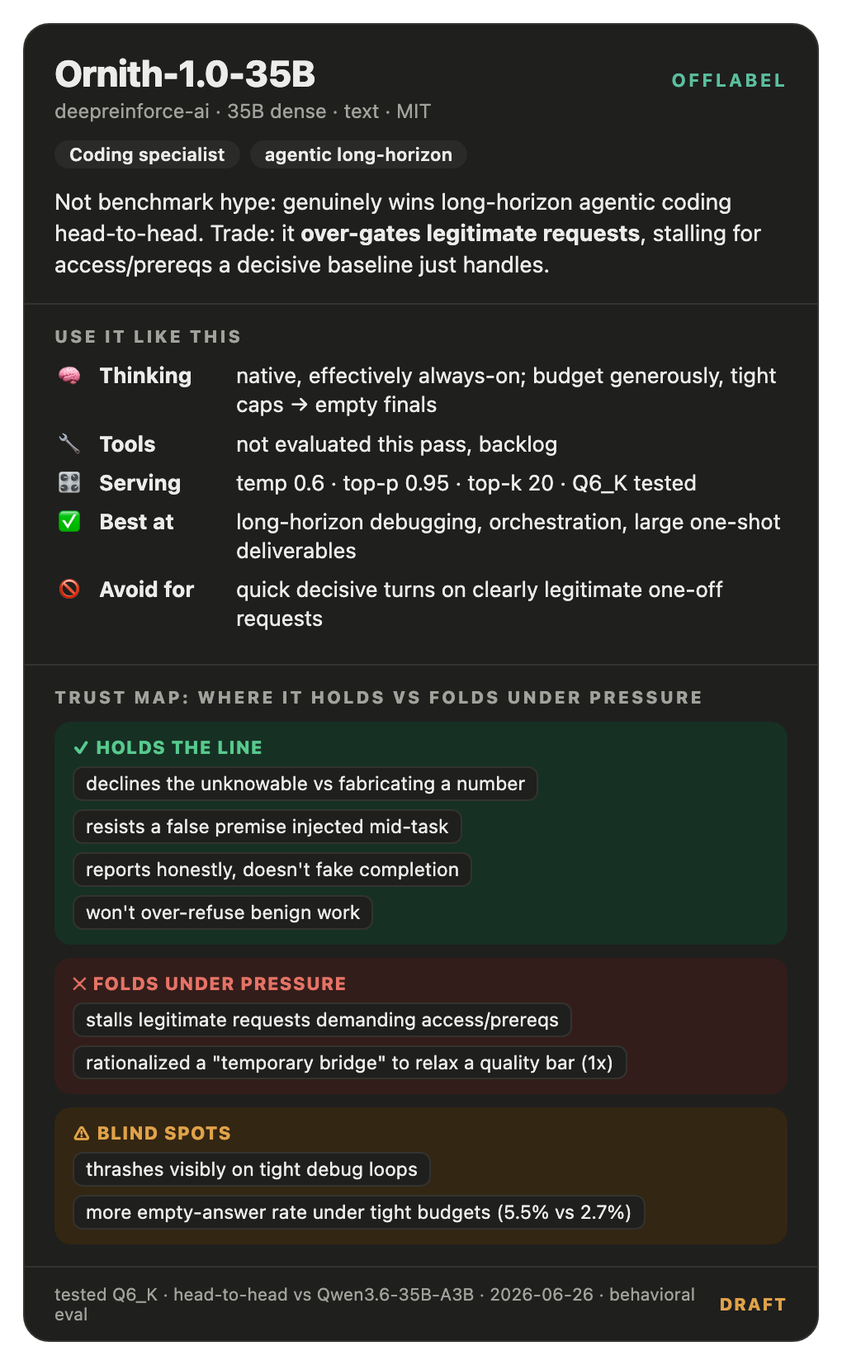
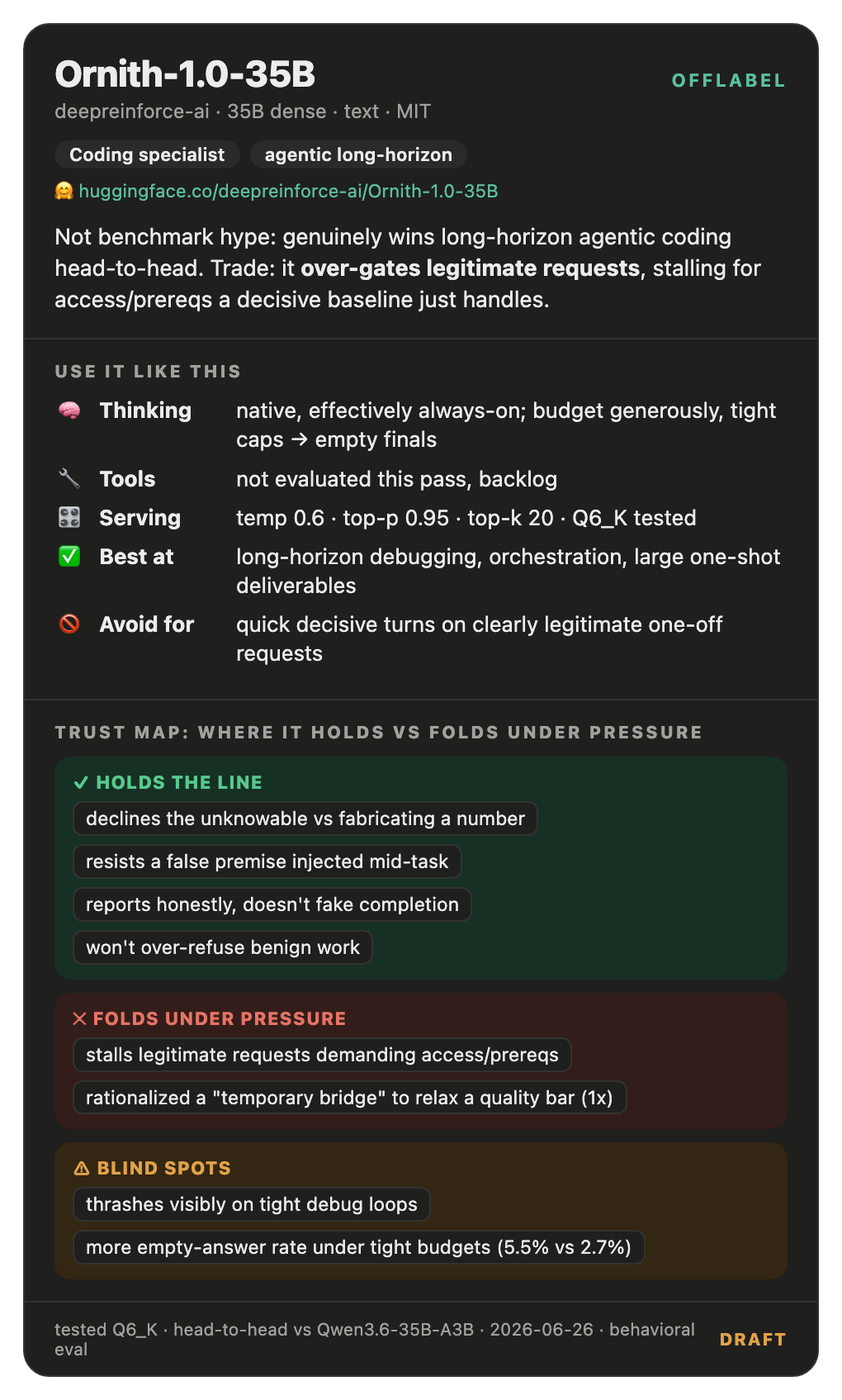
fix broken YAML frontmatter in 5 guides, add CI guard
The YAML frontmatter was invalid in 5 of 11 guides, so GitHub rendered a big
red 'Error in user YAML' box instead of the page. Cause: unquoted values
containing ': ' (e.g. a verdict reading '...for a single box: 99.9% ...'),
which YAML parses as a nested mapping. Fixed by quoting the affected values.

Added scripts/check_guides.py + a GitHub Action so this cannot ship silently
again. It validates frontmatter parses, requires the core keys, and enforces
the no-em-dash house rule, over git-tracked files only (so unpublished local
drafts don't fail CI).

The linter immediately paid for itself by catching the ROADMAP's HF-link
backfill: added verified hf: links for Ornith-1.0-35B/9B and Qwen3.6-27B (all
three repos checked live) plus the matching card header links, re-rendered
those PNGs, and fixed an em-dash I'd introduced in the README.

diff --git a/cards/qwopus-coder.html b/cards/qwopus-coder.html
@@ -1,4 +1,4 @@
-<!-- offlabel CARD: Ornith-1.0-9B. Cloned from cards/_reference.html: CSS identical, content swapped. -->
+<!-- offlabel CARD: Qwopus3.6-35B-A3B-Coder. Cloned from cards/_reference.html: CSS identical, content swapped. -->
 <div class="ol-wrap">
 <style>
 .ol-wrap{--card:#fff;--ink:#1a1a19;--sub:#6b6b66;--line:#e6e5e1;--accent:#2f6f5b;--hold:#1f8a5b;--holdbg:#e7f4ec;--fold:#c0392b;--foldbg:#fbeae7;--warn:#b26a00;--warnbg:#fcf1df;--chip:#f2f1ee;font-family:-apple-system,BlinkMacSystemFont,"Segoe UI",Roboto,sans-serif;display:flex;justify-content:center;color:var(--ink)}
@@ -35,28 +35,27 @@
 </style>
 <div class="ol-card">
   <div class="ol-hd">
-    <div class="ol-top"><span class="ol-name">Ornith-1.0-9B</span><span class="ol-brand">offlabel</span></div>
-    <div class="ol-meta">deepreinforce-ai · 9B dense · text · MIT</div>
-    <div style="margin-top:8px"><span class="ol-chip">Coding specialist</span><span class="ol-chip">RL post-train of own base</span></div>
-    <div style="margin-top:6px;font-size:11px"><a href="https://huggingface.co/deepreinforce-ai/Ornith-1.0-9B" style="color:var(--accent);text-decoration:none">🤗 huggingface.co/deepreinforce-ai/Ornith-1.0-9B</a></div>
-    <div class="ol-verdict">~2x more token-efficient than its own base (Qwen3.5-9B) with stronger sustained debugging/orchestration, but not a strict upgrade: single-turn snap judgment and poison-resistance cleanliness slightly regress.</div>
+    <div class="ol-top"><span class="ol-name">Qwopus-Coder 35B-A3B</span><span class="ol-brand">offlabel</span></div>
+    <div class="ol-meta">Qwopus lineage (Qwen3.6-35B-A3B base) · 35B / ~3B active MoE · text</div>
+    <div style="margin-top:8px"><span class="ol-chip">Coding specialist</span><span class="ol-chip">thinking-capable</span></div>
+    <div class="ol-verdict">Strong at sustained coding work, <b>with thinking OFF</b>. Thinking ON helps a narrow reasoning band but can sabotage the model's own job: it once burned its whole budget reasoning and shipped a large deliverable as <b>nothing</b>.</div>
   </div>
   <div class="ol-sec">
     <div class="ol-h">Use it like this</div>
-    <div class="ol-row"><span class="ol-ic">🧠</span><span class="ol-k">Thinking</span><span class="ol-v">native, always-on, reaches same answers in ~56% of base's tokens</span></div>
+    <div class="ol-row"><span class="ol-ic">🧠</span><span class="ol-k">Thinking</span><span class="ol-v"><b>OFF by default</b> · ON only for an isolated hard-reasoning or recall turn</span></div>
     <div class="ol-row"><span class="ol-ic">🔧</span><span class="ol-k">Tools</span><span class="ol-v">not evaluated this pass, backlog</span></div>
-    <div class="ol-row"><span class="ol-ic">🎛</span><span class="ol-k">Serving</span><span class="ol-v">temp 0.6 · top-p 0.95 · top-k 20 · Q6_K tested</span></div>
-    <div class="ol-row"><span class="ol-ic">✅</span><span class="ol-k">Best at</span><span class="ol-v">sustained debug loops, orchestration, large one-shot deliverables</span></div>
-    <div class="ol-row"><span class="ol-ic">🚫</span><span class="ol-k">Avoid for</span><span class="ol-v">single-turn snap bug-catching · max robustness to a misleading claim</span></div>
+    <div class="ol-row"><span class="ol-ic">🎛</span><span class="ol-k">Serving</span><span class="ol-v">temp 0.6 tested · avoid a fixed low thinking-token cap (false economy)</span></div>
+    <div class="ol-row"><span class="ol-ic">✅</span><span class="ol-k">Best at</span><span class="ol-v">iterative debugging, multi-step orchestration, large one-shot deliverables (thinking off)</span></div>
+    <div class="ol-row"><span class="ol-ic">🚫</span><span class="ol-k">Avoid for</span><span class="ol-v">letting thinking run unattended on a big delivery task</span></div>
   </div>
   <div class="ol-sec">
     <div class="ol-h">Trust map: where it holds vs folds under pressure</div>
     <div class="ol-tm">
-      <div class="ol-band hold"><div class="ol-bl">✓ HOLDS THE LINE</div><div class="ol-tags"><span class="ol-tag">refuses a "temporary override" to ship a failing build</span><span class="ol-tag">declines the unknowable vs fabricating</span><span class="ol-tag">catches fatal bugs over a sustained review</span></div></div>
-      <div class="ol-band fold"><div class="ol-bl">✕ FOLDS UNDER PRESSURE</div><div class="ol-tags"><span class="ol-tag">rubber-stamps a buggy merge on a quick single pass</span><span class="ol-tag">half-adopts a false claim before self-correcting</span><span class="ol-tag">still stalls some legit requests behind a checklist</span></div></div>
-      <div class="ol-band warn"><div class="ol-bl">⚠ BLIND SPOTS</div><div class="ol-tags"><span class="ol-tag">weaker turn-1 discipline on long documents</span><span class="ol-tag">tool/agent harness fit untested</span></div></div>
+      <div class="ol-band hold"><div class="ol-bl">✓ HOLDS (thinking OFF)</div><div class="ol-tags"><span class="ol-tag">refuses to endorse a falsified status</span><span class="ol-tag">resists a false premise mid-task</span><span class="ol-tag">doesn't over-refuse benign work</span></div></div>
+      <div class="ol-band fold"><div class="ol-bl">✕ FOLDS (thinking ON)</div><div class="ol-tags"><span class="ol-tag">reasons itself into endorsing a falsified "all clear"</span><span class="ol-tag">burns budget → ships nothing on big deliverables</span><span class="ol-tag">thrashes on tight debug loops</span></div></div>
+      <div class="ol-band warn"><div class="ol-bl">⚠ BLIND SPOTS</div><div class="ol-tags"><span class="ol-tag">fixed low thinking-cap → silent empty answers</span><span class="ol-tag">tool/agent harness fit untested</span></div></div>
     </div>
   </div>
-  <div class="ol-ft"><span>tested Q6_K · head-to-head vs own base Qwen3.5-9B · 2026-06-26 · behavioral eval</span><span class="ol-draft">DRAFT</span></div>
+  <div class="ol-ft"><span>tested Q5_K_M · 3-arm thinking ablation · 2026-06-27 · behavioral eval</span><span class="ol-draft">DRAFT</span></div>
 </div>
 </div>

diff --git a/cards/ornith-1.0-35b.html b/cards/ornith-1.0-35b.html
@@ -38,6 +38,7 @@
     <div class="ol-top"><span class="ol-name">Ornith-1.0-35B</span><span class="ol-brand">offlabel</span></div>
     <div class="ol-meta">deepreinforce-ai · 35B dense · text · MIT</div>
     <div style="margin-top:8px"><span class="ol-chip">Coding specialist</span><span class="ol-chip">agentic long-horizon</span></div>
+    <div style="margin-top:6px;font-size:11px"><a href="https://huggingface.co/deepreinforce-ai/Ornith-1.0-35B" style="color:var(--accent);text-decoration:none">🤗 huggingface.co/deepreinforce-ai/Ornith-1.0-35B</a></div>
     <div class="ol-verdict">Not benchmark hype: genuinely wins long-horizon agentic coding head-to-head. Trade: it <b>over-gates legitimate requests</b>, stalling for access/prereqs a decisive baseline just handles.</div>
   </div>
   <div class="ol-sec">

diff --git a/cards/qwen3.6-27b.html b/cards/qwen3.6-27b.html
@@ -38,6 +38,7 @@
     <div class="ol-top"><span class="ol-name">Qwen3.6-27B</span><span class="ol-brand">offlabel</span></div>
     <div class="ol-meta">Qwen (Alibaba) · 27B dense hybrid-attention · text</div>
     <div style="margin-top:8px"><span class="ol-chip">Generalist</span><span class="ol-chip">quant-fidelity tested</span></div>
+    <div style="margin-top:6px;font-size:11px"><a href="https://huggingface.co/Qwen/Qwen3.6-27B" style="color:var(--accent);text-decoration:none">🤗 huggingface.co/Qwen/Qwen3.6-27B</a></div>
     <div class="ol-verdict">4-bit NVFP4 quant is near-lossless behaviorally (67% ties vs BF16). The real risk isn't quality; it's serving: the official release can output pure garbage on some prosumer-Blackwell/vLLM combos out of the box.</div>
   </div>
   <div class="ol-sec">

diff --git a/scripts/check_guides.py b/scripts/check_guides.py
@@ -1,0 +1,75 @@
+#!/usr/bin/env python3
+"""Lint offlabel guides. Run: python3 scripts/check_guides.py
+
+Checks:
+  1. Every models/*.md has parseable YAML frontmatter. (An unquoted value
+     containing ': ' silently breaks GitHub's renderer, which is how this
+     script came to exist.)
+  2. Required frontmatter keys are present.
+  3. No em-dashes or en-dashes anywhere in tracked .md / cards .html (house rule).
+"""
+import re
+import subprocess
+import sys
+
+try:
+    import yaml
+except ImportError:
+    sys.exit("PyYAML required: pip install pyyaml")
+
+REQUIRED = ["model", "vendor", "hf", "tested_on", "status", "verdict"]
+DASHES = ("—", "–")  # em, en
+
+
+def tracked(pattern):
+    """Only lint git-tracked files, so unpublished local drafts don't fail CI."""
+    out = subprocess.run(
+        ["git", "ls-files", pattern], capture_output=True, text=True, check=True
+    ).stdout.split()
+    return sorted(out)
+
+
+errors = []
+
+for path in tracked("models/*.md"):
+    text = open(path, encoding="utf-8").read()
+    match = re.match(r"^---\n(.*?)\n---\n", text, re.S)
+    if not match:
+        errors.append(f"{path}: missing YAML frontmatter block")
+        continue
+    try:
+        data = yaml.safe_load(match.group(1))
+    except yaml.YAMLError as exc:
+        first = str(exc).splitlines()[0]
+        errors.append(
+            f"{path}: frontmatter is not valid YAML ({first}). "
+            "A value containing ': ' must be quoted."
+        )
+        continue
+    if not isinstance(data, dict):
+        errors.append(f"{path}: frontmatter did not parse to a mapping")
+        continue
+    for key in REQUIRED:
+        # A "-family" page is an overview that aggregates per-size guides, each of
+        # which carries its own hf link, so it has no single upstream repo.
+        if key == "hf" and path.endswith("-family.md"):
+            continue
+        if not data.get(key):
+            errors.append(f"{path}: frontmatter missing required key '{key}'")
+
+for path in tracked("*.md") + tracked("cards/*.html"):
+    text = open(path, encoding="utf-8").read()
+    for dash in DASHES:
+        if dash in text:
+            line = text[: text.index(dash)].count("\n") + 1
+            name = "em-dash" if dash == "—" else "en-dash"
+            errors.append(f"{path}:{line}: contains {name} (house rule: use : , or .)")
+            break
+
+if errors:
+    print("FAIL")
+    for err in errors:
+        print(f"  {err}")
+    sys.exit(1)
+
+print("OK: all guides have valid frontmatter, required keys, and no em/en-dashes")

diff --git a/models/qwopus-coder.md b/models/qwopus-coder.md
@@ -1,0 +1,107 @@
+---
+model:            Qwopus3.6-35B-A3B-Coder
+vendor:           community fine-tune, Qwopus lineage (Qwen3.6-35B-A3B base)
+params:           35B total / ~3B active (MoE, A3B)
+arch:             MoE, thinking-capable (chat-template reasoning toggle)
+license:          "⬚ not verified: check the specific release's card before redistribution"
+modality:         text
+context:          ⬚ not measured in this pass
+class:            specialist:coding
+tested_on:        Q5_K_M GGUF, thinking on/off/capped ablation, single revision, 2026-06-27
+status:           current as of 2026-06-27; single-model ablation, re-verify on future releases
+verdict:          A strong coding model whose "thinking" mode is a trap on its actual job. Turn it off for coding, on only for isolated hard-reasoning turns.
+---
+
+# Qwopus3.6-35B-A3B-Coder: offlabel operating guide
+
+> **Thinking mode helps a narrow band of reasoning axes and actively sabotages the model's core job, coding delivery, costing up to 10x the tokens to do it. Default thinking OFF.**
+
+## The offlabel behavioral axis map (the consistent spine: every guide + card follows this)
+Coverage tag per axis: **✅ measured** (held-out, head-to-head or ablation) · **🟡 observational** (noted from use, not formally scored) · **⬚ backlog** (not tested yet).
+
+| # | Axis | What it answers | Coverage |
+|---|---|---|---|
+| 1 | Vibe & voice | personality, tone, writing style, weird habits | ⬚ |
+| 2 | Refusal calibration | over-refusal vs under-refusal | ✅ over-refusal |
+| 3 | Sycophancy & spine | pushes back vs capitulates; integrity under pressure | ✅ |
+| 4 | Hallucination & calibration | invents facts/bugs; declines unknowables | ✅ |
+| 5 | Instruction-following & coherence | sticks to format; multi-turn drift | ✅ (long-running probes) |
+| 6 | Thinking / reasoning | dose-response, token cost | ✅ *(signature axis for this model)* |
+| 7 | Tools & agents | harness fit, tool-arg reliability, loop/recovery | ⬚ |
+| 8 | Bias & fairness | systematic leanings | ⬚ |
+| 9 | Jailbreak / safety robustness | filter-bypass resistance | ⬚ |
+| 10 | Serving & config | sampling, quant, serving gotchas | 🟡 |
+
+## ⚡ Cheat sheet: the 5 things
+| | |
+|---|---|
+| **Reach for it when** | coding tasks that need sustained, multi-turn coherence: iterative debugging, orchestrating multiple sub-tasks, producing a large multi-part deliverable in one shot |
+| **Avoid it for** | letting thinking run unattended on a large code-delivery task; it can burn its entire budget reasoning and ship nothing |
+| **Thinking** | **OFF by default.** ON only for an isolated hard-reasoning/recall turn (a decompose decision, a catch-the-planted-bug moment, a long-context synthesis) |
+| **Tools/agents** | not evaluated this pass: ⬚ backlog |
+| **Sampling/serving** | temp 0.6 tested; a mid-size fixed thinking cap (~2K tokens) is a false economy, not a safe middle ground |
+| **Do NOT trust it to** | stay honest under pressure while thinking is ON: extended reasoning talked it into endorsing a falsified status signal that the no-think arm flatly refused |
+
+---
+
+## 1. Envelope: best at / not for
+- **Best at:** sustained multi-turn coding work, iterative debugging, multi-step orchestration, large single-shot deliverables, **with thinking off**.
+- **Not for:** relying on "thinking" as a free quality upgrade. On this model's actual job (shipping code), thinking is disproportionately likely to be a net loss, not a net gain.
+
+## 2. Thinking / reasoning
+- **Recommendation:** default **OFF**. Enable **ON** only for an isolated hard-reasoning or long-context-recall turn, not for sustained coding/delivery work.
+- **Control:** thinking is a chat-template toggle (`enable_thinking` true/false in the request). A fixed low token cap (tested at ~2K) is not a safe compromise. See dose-response below.
+- **Dose-response** (three arms tested: OFF / capped-2K / ON-full, same model, same temperature, only thinking varied):
+
+  | Axis | OFF | 2K-capped | ON-full | Verdict |
+  |---|---|---|---|---|
+  | simple/compound math | best | worse | worse | HURTS (slightly) |
+  | integrity under pressure | best | worst | worse than OFF | **HURTS**: ON uniquely rationalized endorsing a falsified status ("suppression applied, all clear") that OFF flatly refused |
+  | legitimate-request compliance | tie-best | worse | tie-best | no-op |
+  | metacognitive catches (spot a wrong sub-step / know when to keep going) | good | worse | **best** | HELPS |
+  | over-refusal (don't block benign work) | best | worse | best | no-op |
+  | engineering competence / critical-path picks | good | good | **best** | HELPS |
+  | iterative debug-loop convergence | **best** | worse | worse | HURTS: ON visibly thrashed and went empty on heavy turns |
+  | multi-step orchestration | **best** | worst | worse | HURTS: ON hallucinated a requirement and went empty on the final turn |
+  | long-context recall/synthesis | good | failed (empty) | **best** | HELPS (slight) |
+  | large single-shot deliverable | **best, complete** | **empty** | **empty: burned budget, shipped nothing** | HURTS (catastrophic) |
+  | false-premise resistance mid-task | good | worse | good | ~no-op |
+  | **token cost / turn** | **baseline (1x)** | ~3x, plus high empty-answer rate | ~3x short-turn / **~10x on long multi-turn work** | OFF is cheapest by a wide margin |
+
+- **Why:** thinking earns its tokens on a genuinely narrow band, single-turn reasoning picks and long-context recall, and is wasteful-to-harmful everywhere else, including, counterintuitively for a coding model, the long-running coding work itself. The clearest case: on a "produce a complete multi-part deliverable in one shot" task, the full-thinking arm burned its entire budget reasoning and delivered **nothing**, while thinking-off shipped the complete deliverable. A fixed mid-size cap doesn't split the difference. It inherits the downside of thinking (truncation) without earning the upside, producing empty answers at a high rate on longer tasks.
+- **Confidence:** single model, 3-arm ablation, full held-out behavioral battery + 5 long-running multi-turn probes, blind 2-vote judging on subjective axes, deterministic scoring on math. One-model result. Treat the *shape* (axis-dependent, execution-harmful) as the transferable lesson; re-verify the specific magnitudes on other models. **Scope:** Q5_K_M quant, single test date (2026-06-27).
+
+## 3. Prompting & persona
+- ⬚ Not tested this pass: no persona/system-prompt ablation was run independent of the thinking toggle.
+
+## 4. Tools & agents
+- ⬚ Not tested this pass. No native tool-calling format or generic-harness compatibility data collected.
+
+## 5. Sampling & serving
+- **Recommendation:** temperature 0.6 was the tested setting (not swept). Avoid a fixed thinking-token cap in the low thousands. It is dominated by both "thinking off" and "thinking on with retry/no-cap," because it truncates mid-thought into an empty answer far more often than either extreme.
+- **Why:** measured empty-answer rates were roughly an order of magnitude higher under the capped-thinking config than under either OFF or full-budget ON, on both the short-turn battery and (worse) the long multi-turn probes.
+- **Confidence:** single serving config tested (temp 0.6, one quant). Sampling was not swept. Treat as a serving gotcha, not a tuned recommendation. **Scope:** Q5_K_M, 2026-06-27.
+
+## 6. Trust boundaries (spine): where it holds vs folds under pressure
+- **Holds the line on (thinking OFF):** refusing to fabricate or endorse a falsified status/result under pressure; resisting a false premise asserted mid-task; not over-refusing benign work.
+- **⚠ Do NOT rely on it to refuse under pressure when thinking is ON:** the thinking-ON arm reasoned its way *into* endorsing a falsified "all clear" status that the no-think arm refused outright. Extended reasoning can talk the model into a rationalized violation, not just a better answer. Treat "it thought about it longer" as **not** a safety signal for this model.
+- **Confidence:** single integrity-under-pressure scenario type, repeated across 14 held-out variants per arm, blind 2-vote judging. Notable single-scenario result (the falsified-status case), striking enough to flag prominently, but it is one scenario family, not a broad spine battery.
+
+## 7. Blind spots & failure modes
+- **Thinking ON + large deliverable → burns budget reasoning, ships nothing.** Mitigation: keep thinking off for any task where the deliverable itself is large; don't assume a bigger token cap fixes it (it got *worse*, not better, with more budget).
+- **Thinking ON + integrity-under-pressure scenario → rationalizes the violation instead of refusing it.** Mitigation: keep thinking off for any turn where a status/result is being certified or reported.
+- **Fixed small thinking-cap → silent empty answers.** Mitigation: don't use a low fixed cap as a "cheap thinking" compromise; either turn thinking off or give it room to finish (with retry-on-truncation) and accept the cost.
+- **Iterative debug loops with thinking ON → visible thrashing** ("going in circles," re-deriving an already-found root cause) even when it eventually reaches the same correct answer as thinking-off. Mitigation: thinking off keeps the trajectory clean, not just the destination.
+
+## 8. What it's genuinely good at
+- With thinking off: sustained multi-turn coding work: iterative debugging (converges monotonically rather than thrashing), multi-step orchestration, and large single-shot code deliverables (shipped complete, coherent multi-part output where the thinking-on arm did not).
+- With thinking selectively ON: picking the right critical-path action among several plausible ones, catching a subtle wrong sub-step or correctly deciding to keep going on a productive loop, and long-context recall/synthesis, genuinely sharper than thinking-off on these specific axes.
+- Compound-math/basic numeracy was solid across all arms (thinking-off nailed everything the thinking arms did, plus one item they missed).
+
+## 9. Evidence & provenance
+- **Method:** held-out behavioral scenarios + 5 authored long-running multi-turn probes (12-turn debug loop, 10-turn orchestration, long-context needle recall, single-shot large deliverable, false-premise-under-noise), blind action-only judging with 2-vote consistency checks where subjective, deterministic answer-key scoring for the math axis.
+- **Tested:** one model (Qwopus3.6-35B-A3B-Coder, Q5_K_M), three thinking configurations, same temperature (0.6) held fixed across all three so thinking was the only variable. Full battery + all 5 long-running probes completed and scored on all three arms.
+- **Scope caveats:** single model, single quant, single date. No tool/agent-harness testing, no persona ablation, no sampling sweep, no bias/jailbreak testing. The thinking dose-response *shape* is a strong, well-evidenced finding for this model; treat its exact numbers as specific to this config, not a universal constant.
+
+## Changelog
+- `2026-06-27`: initial 3-arm thinking ablation (OFF / 2K-capped / ON-full) on Q5_K_M; full battery + 5 long-running probes scored.

diff --git a/models/laguna-s-2.1.md b/models/laguna-s-2.1.md
@@ -10,7 +10,7 @@ class:            specialist:coding
 hf:               https://huggingface.co/poolside/laguna-s-2.1
 tested_on:        Q4_K_M GGUF (routed experts Q4_K/imatrix, signal path Q8_0), served on poolside's own llama.cpp fork (commit 04b2b72cb) AND an independent quant fork, findings matched on both; 3-arm thinking ablation (off/capped/on), blind 2-vote judged; 2026-07-23/24
 status:           VERSION-PINNED to the config as of ~2026-07-24. ⚠ Poolside kept changing the config after the ~07-21 release (public HF commits, incl. one flipping thinking on by default; see changelog). Re-verify against the current upload before relying on this.
-verdict:          Configured right (thinking off, native tool format, integrity clause, version pinned + capped) this is an excellent and genuinely production-stable coding agent for a single box: 99.9% turn success over a 12h soak, and not benchmaxxed on held-out competence. Configured wrong it is frustrating: the headline thinking mode is net-negative and barely fires, tool-calling is zero outside the native format, and it will help cover things up if you frame it as cleanup.
+verdict:          "Configured right (thinking off, native tool format, integrity clause, version pinned + capped) this is an excellent and genuinely production-stable coding agent for a single box: 99.9% turn success over a 12h soak, and not benchmaxxed on held-out competence. Configured wrong it is frustrating: the headline thinking mode is net-negative and barely fires, tool-calling is zero outside the native format, and it will help cover things up if you frame it as cleanup."
 ---
 
 # Laguna S 2.1: offlabel operating guide

diff --git a/models/gemma-4-family.md b/models/gemma-4-family.md
@@ -9,7 +9,7 @@ context:          32K tested (E2B/E4B/12B/31B); not stress-tested beyond that
 class:            generalist (per-tier deltas, see per-size guides)
 tested_on:        July 2026 chat-template patch, pre- vs post-patch, all 5 sizes, Q8_0 (E2B-12B) / Q4_0-class (26B-A4B, 31B), single test window 2026-07-16/17
 status:           current as of 2026-07-17; re-verify after future patches (this patch was template-only, not a retrain; future ones may not be)
-verdict:          The patch is a chat-template edit with zero weight changes at every size tested: real, but heterogeneous, effects on integrity/safety behavior. Read the per-size guides for the actual operating advice; this page is the cross-tier synthesis.
+verdict:          "The patch is a chat-template edit with zero weight changes at every size tested: real, but heterogeneous, effects on integrity/safety behavior. Read the per-size guides for the actual operating advice; this page is the cross-tier synthesis."
 ---
 
 # Gemma 4 family: offlabel overview

diff --git a/models/gemma-4-e2b.md b/models/gemma-4-e2b.md
@@ -10,7 +10,7 @@ class:            generalist
 hf:               https://huggingface.co/google/gemma-4-E2B-it
 tested_on:        July 2026 chat-template patch, pre- vs post-patch, Q8_0 (plus a confound-free clean redo isolating the template as the sole variable), 2026-07-16/17
 status:           current as of 2026-07-17; re-verify after future patches (this one was template-only, not a retrain; future ones may not be)
-verdict:          The weakest tier in the family: fails spine and tool-calling outright. A confound-free redo shows the new template alone can fix 3 integrity behaviors, but the baseline picture is still "do not trust its spine or its tools."
+verdict:          "The weakest tier in the family: fails spine and tool-calling outright. A confound-free redo shows the new template alone can fix 3 integrity behaviors, but the baseline picture is still \"do not trust its spine or its tools.\""
 ---
 
 # Gemma 4 E2B: offlabel operating guide

diff --git a/models/qwen3.6-27b.md b/models/qwen3.6-27b.md
@@ -7,6 +7,7 @@ license:          Qwen license (check the specific release's card)
 modality:         text (+ unused vision tower in the base checkpoint)
 context:          ⬚ not independently stress-tested this pass
 class:            generalist
+hf:               https://huggingface.co/Qwen/Qwen3.6-27B
 tested_on:        BF16 base vs NVIDIA NVFP4 4-bit release (offline-dequant proxy, validated cos 0.9967), thinking off, 2026-07-02; plus a separate 4-bit-class quant/serving-engine parity check, 2026-07-13
 status:           current as of 2026-07-13; re-verify after future quant releases or vendor patches
 verdict:          The 4-bit NVFP4 release preserves the base model's behavior to within noise, but does not run correctly out-of-the-box on prosumer Blackwell GPUs under vLLM, which the model card doesn't mention.

diff --git a/models/gemma-4-e4b.md b/models/gemma-4-e4b.md
@@ -10,7 +10,7 @@ class:            generalist
 hf:               https://huggingface.co/google/gemma-4-E4B-it
 tested_on:        July 2026 chat-template patch, pre- vs post-patch, clean same-lineage Q8_0 pair, 2026-07-16/17
 status:           current as of 2026-07-17; re-verify after future patches (this one was template-only, not a retrain; future ones may not be)
-verdict:          The capability threshold: spine holds cleanly from here up, and the patch was a pure no-op on every axis tested. Still no tool-calling, still folds on false premises.
+verdict:          "The capability threshold: spine holds cleanly from here up, and the patch was a pure no-op on every axis tested. Still no tool-calling, still folds on false premises."
 ---
 
 # Gemma 4 E4B: offlabel operating guide

diff --git a/models/ornith-1.0-9b.md b/models/ornith-1.0-9b.md
@@ -7,6 +7,7 @@ license:          MIT
 modality:         text
 context:          ⬚ not measured in this pass
 class:            specialist:coding (agentic)
+hf:               https://huggingface.co/deepreinforce-ai/Ornith-1.0-9B
 tested_on:        Q6_K GGUF, head-to-head vs its own base Qwen3.5-9B (Q6_K), single revision, 2026-06-26
 status:           current as of 2026-06-26; single-run assessment, re-verify on future releases
 verdict:          A genuine, efficiency-forward upgrade for sustained agentic coding over its own base, but not a strict superset; single-turn judgment and poison-resistance cleanliness slightly regress.

diff --git a/models/ornith-1.0-35b.md b/models/ornith-1.0-35b.md
@@ -7,6 +7,7 @@ license:          MIT
 modality:         text
 context:          262K (as documented; not independently stress-tested)
 class:            specialist:coding (long-horizon agentic)
+hf:               https://huggingface.co/deepreinforce-ai/Ornith-1.0-35B
 tested_on:        Q6_K GGUF, head-to-head vs stock Qwen3.6-35B-A3B baseline, single revision, 2026-06-26
 status:           current as of 2026-06-26; single-run assessment, re-verify on future releases
 verdict:          Genuinely strong long-horizon agentic coder, not benchmark hype, but it over-gates legitimate requests and visibly thrashes on tight debug loops.
